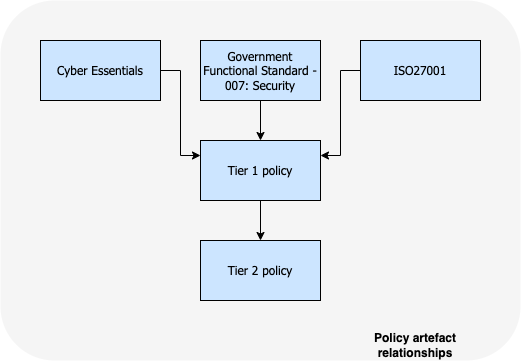
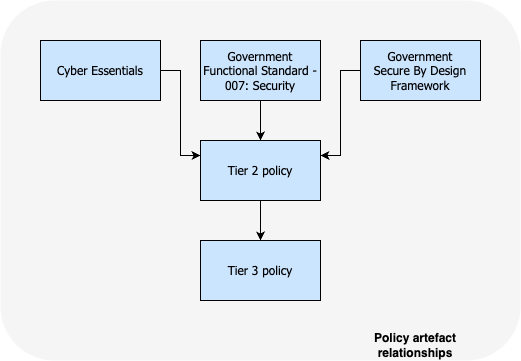
Update to include Secure by Design

Changed region(s): [[0.7063, 0.1524, 0.8906, 0.2742], [0.4607, 0.4571, 0.4914, 0.4875]]

diff --git a/README.md b/README.md
@@ -113,7 +113,7 @@ The Tier 3 policy is developed and maintained by the Security Architecture team,
 
 * [Cyber Essentials](https://www.ncsc.gov.uk/cyberessentials/overview)
 * [Government Functional Standard 007](https://www.gov.uk/government/publications/government-functional-standard-govs-007-security)
-* [ISO27001](https://www.iso.org/isoiec-27001-information-security.html)
+* [Government Secure by Design Framework](https://www.security.gov.uk/guidance/secure-by-design/)
 
 
 ## Naming standard
